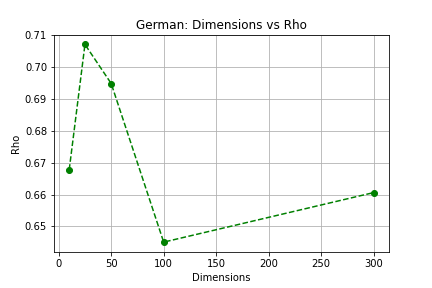
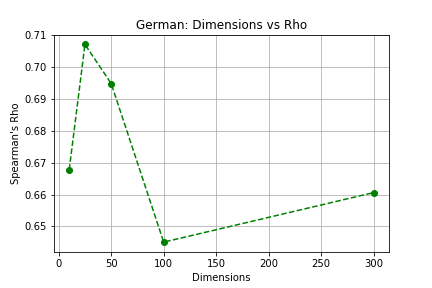
errata fixes

diff --git a/sections/4-results.tex b/sections/4-results.tex
@@ -3,7 +3,7 @@
 
 \subsection{Overall Top Models}
 
-Hyperparameter searches are purely experimental and can be infinitely expanded. By using the most often used hyperparameter values in LSC tasks, a foundation is made for where to begin. \autoref{fig:score-dist} shows the distribution of Spearman's $\rho$ scores for English, German, Latin, and Swedish respectively. The wide variations of scores for each language in these distributions demonstrate the lack of understanding in the effects of the interactions between hyperparameters on the overall performance of the models. Latin's score distribution in \autoref{fig:score-dist-lat} indicates that most of the models trained resulted in an average score. Without a hyperparameter search, there is a high chance that the model trained on Latin corpora will have an average score hence a much smaller chance of having a model that performs very well. Contrastively, the score distributions for English, German, and Swedish in  \autoref{fig:score-dist-eng}, \autoref{fig:score-dist-deu}, and \autoref{fig:score-dist-sve} respectively, have a much wider range of scores—indicating that hyperparameter searches are also worth conducting. Majority of the 3 figures' model scores are low or average and the top-performing models only make up a small percentage of the total scores. These three languages have a better chance of getting a better-performing model, but also have a higher risk of getting a model that performs very poorly. More evident in \autoref{fig:score-dist-sve}, Swedish is at a higher risk of having a model that will perform poorly due do its incredibly large range of scores. A general analysis of the overall top-performing models for each language will be analysed in this section. Findings of the effects of each hyperparameter on the performance for each language will also be discussed below. 
+Hyperparameter searches are purely experimental and can be infinitely expanded. By using the most often used hyperparameter values in LSC tasks, a foundation is made for where to begin. \autoref{fig:score-dist} shows the distribution of Spearman's $\rho$ scores for English, German, Latin, and Swedish respectively. The wide variations of scores for each language in these distributions demonstrate the lack of understanding in the effects of the interactions between hyperparameters on the overall performance of the models. Latin's score distribution in \autoref{fig:score-dist-lat} indicates that most of the models trained resulted in an average score. Without a hyperparameter search, there is a high chance that the model trained on Latin corpora will have an average score hence a much smaller chance of having a model that performs very well. Contrastively, the score distributions for English, German, and Swedish in  \autoref{fig:score-dist-eng}, \autoref{fig:score-dist-deu}, and \autoref{fig:score-dist-sve} respectively, have a much wider range of scores—indicating that hyperparameter searches are also worth conducting. Majority of the 3 figures' model scores are low or average and the top-performing models only make up a small percentage of the total scores. These three languages have a better chance of getting a better-performing model, but also have a higher risk of getting a model that performs very poorly. More evident in \autoref{fig:score-dist-sve}, Swedish is at a higher risk of having a model that will perform poorly due to its incredibly large range of scores. A general analysis of the overall top-performing models for each language will be analysed in this section. Findings of the effects of each hyperparameter on the performance for each language will also be discussed below. 
 
 \begin{figure}[h]
   \centering
@@ -16,7 +16,7 @@ Hyperparameter searches are purely experimental and can be infinitely expanded. 
 \end{figure}
 
 
-The hyperparameter search successfully found model combinations that outperformed both the best teams in the SemEval task and \citet{kaiser-etal-2020-ims}’s post-hoc optimizations for both English and Latin. As seen in \autoref{tab:performance-comparison}, a model was found to surpass the score of the best team in SemEval but not \citet{kaiser-etal-2020-ims} for the German language. The top-performing models for each language and their hyperparameters are shown in \autoref{tab:top-models}. Although it is important to analyse the top results for each language separately, it is noteworthy to see commonalities between all four languages. The Orthogonal Procrustes alignment method seems to be the most effective for bigger datasets. For smaller datasets such as Latin, the Incremental Training alignment method is the most effective as the second time period model has information learned from both the first and second time period corpora. Epochs were also surprisingly low and lower frequency thresholds performed best as it included the maximum amount of words in the model’s vocabulary. Typically, longer epochs mean more time for the model to learn more from the data and the nuances within that data. However, there is a certain threshold where the model stops learning what is useful and begins to learn noise which can decrease model performance. 
+The hyperparameter search successfully found model combinations that outperformed both the best teams in the SemEval task and \citet{kaiser-etal-2020-ims}’s post-hoc optimizations for both English and Latin. As seen in \autoref{tab:performance-comparison}, a model was found to surpass the score of the best team in SemEval but not \citet{kaiser-etal-2020-ims} for the Swedish language. The top-performing models for each language and their hyperparameters are shown in \autoref{tab:top-models}. Although it is important to analyse the top results for each language separately, it is noteworthy to see commonalities between all four languages. The Orthogonal Procrustes alignment method seems to be the most effective for bigger datasets. For smaller datasets such as Latin, the Incremental Training alignment method is the most effective as the second time period model has information learned from both the first and second time period corpora. Epochs were also surprisingly low and lower frequency thresholds performed best as it included the maximum amount of words in the model’s vocabulary. Typically, longer epochs mean more time for the model to learn more from the data and the nuances within that data. However, there is a certain threshold where the model stops learning what is useful and begins to learn noise which can decrease model performance. 
 
 
 \begin{table}[h]
@@ -46,7 +46,7 @@ Latin      & W2V             & INC              & -                & 5          
 Swedish    & FT              & OP               & 5000             & 10                & 50              & 10               & .651            \\
 \bottomrule
 \end{tabular}
-\caption{Top-performing models for each language and their parameters. Abbreviations: W2V=Word2Vec, FT=FastText, OP=Orthogonal Procrustes, INC=Incremental.}
+\caption{Top-performing models for each language and their hyperparameters. Abbreviations: W2V=Word2Vec, FT=FastText, OP=Orthogonal Procrustes, INC=Incremental.}
 \label{tab:top-models}
 \end{table}
 
@@ -66,7 +66,8 @@ The relationship between epochs and performance raises the question of priority 
   \label{fig:all-epochs}
 \end{figure}
 
-The vector dimension hyperparameter refers to the size of the vector for each word representation. Increasing vector dimensions requires a higher computational time and more memory. As expected, English performs best with higher dimensions. The 300-dimension hyperparameter is common in NLP tasks and is usually the standard when conducting NLP (including LSC) tasks on other languages due to the prevalence in studies being done in English.\footnote{Using vectors with a size of 300 dimensions for word representations is the agreed upon standard and is used in most work and tutorials in NLP.} As seen in \autoref{fig:all-dims}, choosing higher dimensions does not necessarily result in better $\rho$ scores as it does with the English language. German, Swedish, and Latin all have higher $\rho$ scores when lower dimensions are used. Latin’s top model performed best with the lowest dimension of 10. Since the Latin corpora is very small compared to the other three languages, having less abstractions of words in the vector representations might have been more useful for the model and minimised the introduction of noise. The genre makeup of corpora is also put into question as it seems to have an effect on the vector dimensions consequently affecting performance. Swedish and German are both composed of newspaper corpora and so the same style and type of language is used. English has a mixed genre corpora and Latin is somewhere in between. Since Swedish and German models are trained on texts that have their own writing style where constructions of sentences are similar but the words have been used under many contexts, vectors with higher dimensions allow for those nuances to be learned. On the other hand, the Latin corpora consists of a wide range of texts compiled and vectors with lower dimensions allow the model to learn the usages of the words in a broader context. The genres of text being included in the corpora must be taken into consideration before choosing the vector dimensions for a model. The standard convention of 300 dimensions, based on English results in past NLP tasks, also shows not as effective on other languages.
+
+The vector dimension hyperparameter refers to the size of the vector for each word representation. Increasing vector dimensions requires a higher computational time and more memory. As expected, English performs best with higher dimensions. The 300-dimension hyperparameter is common in NLP tasks and is usually the standard when conducting NLP (including LSC) tasks on other languages due to the prevalence in studies being done in English.\footnote{Using vectors with a size of 300 dimensions for word representations is the agreed upon standard and is used in most work and tutorials in NLP.} As seen in \autoref{fig:all-dims}, choosing higher dimensions does not necessarily result in better $\rho$ scores as it does with the English language. German, Swedish, and Latin all have higher $\rho$ scores when lower dimensions are used. Latin’s top model performed best with the lowest dimension of 10. Since the Latin corpora is very small compared to the other three languages, having "simpler" word vector representations might have been more useful for the model and minimised the introduction of noise. The genre makeup of corpora is also put into question as it seems to have an effect on the vector dimensions consequently affecting performance. Swedish and German are both composed of newspaper corpora and so the same style and type of language is used. English has a mixed genre corpora and Latin is somewhere in between. Since Swedish and German models are trained on texts that have their own writing style where constructions of sentences are similar but the words have been used under many contexts, vectors with higher dimensions allow for those nuances to be learned. On the other hand, the Latin corpora consists of a wide range of texts compiled and vectors with lower dimensions allow the model to learn the usages of the words in a broader context. The genres of text being included in the corpora must be taken into consideration before choosing the vector dimensions for a model. The standard convention of 300 dimensions, based on English results in past NLP tasks, also shows not as effective on other languages.
 
 %\cmtKV{should i cite something here or is this okay to just say}
 
@@ -77,14 +78,16 @@ The vector dimension hyperparameter refers to the size of the vector for each wo
   \label{fig:all-dims}
 \end{figure}
 
+
 The frequency threshold hyperparameter refers to the minimum number of times a word has to appear in a corpus to be included in the model’s vocabulary and thus for a vector to be learned. Smaller frequency thresholds will result in a larger vocabulary. Since the vocabulary is larger, memory needed will also be larger as there are more vectors to be stored and learned by the model.  \autoref{fig:all-freqs} illustrates that it is generally better to have a lower frequency threshold in order to ensure that majority of the words in a corpus is being included. German and Swedish do not have 4 points in \autoref{fig:all-freqs} as the $\rho$ scores for those model combinations were NaNs. While German performs best with the lowest frequency threshold of 5, English, Latin, and Swedish all perform better at a slightly higher frequency threshold of 10. Depending on the corpus being used, better performance with a higher frequency threshold could mean an effective filtering out of words that are seldom used in the corpus and do not effectively contribute to the target words' contextual meanings: a steady decrease in $\rho$ scores are seen as the frequency threshold increases. This is expected since a higher frequency threshold results in less words in the vocabulary and a smaller vocabulary naturally excludes words that contribute to the contextual meaning of a word. 
 
 \begin{figure}[h]
   \centering
   \includegraphics[width=.8\linewidth]{sections/figures/freqs_all.png}
-  \caption{Change in Frequency Thresholds vs. Performance.}
+  \caption{Change in Frequency Threshold vs. Performance.}
   \label{fig:all-freqs}
 \end{figure}
+
 
 Two approaches were used for the Orthogonal Procrustes alignment method—Ryan Heuser’s Tutorial\footnote{\url{https://gist.github.com/quadrismegistus/09a93e219a6ffc4f216fb85235535faf}} and VecMap\footnote{\url{https://github.com/artetxem/vecmap}}. The former had a default of including the entire shared vocabulary of the first time period corpus and the second time period corpus during the alignment process. However, the latter included the option to indicate the size of the shared vocabulary during the alignment process. \autoref{fig:all-vocabalign} shows the effect of vocabulary size during the Orthogonal Procrustes alignment process on $\rho$ scores when using VecMap. Latin is not included in this graph since its top-performing model used the Incremental Training alignment method. English and German seem to be affected similarly from this hyperparameter while Swedish experiences the opposite. German profits when the entire vocabulary (where the shared vocabulary size is 218,507), including the target words, is included in the alignment process and results in the top-performing model. Swedish experiences a similar increase in performance when the shared vocabulary size is 5000. However, the top-performing model for Swedish has a vocabulary size of 5000 and an increase in vocabulary size shows a decrease in $\rho$ scores. Although English has a significantly smaller corpora size, it also profits from the inclusion of the entire vocabulary (where the shared vocabulary size is 16,429) when aligning both time period models. \autoref{fig:all-vocabalign} shows that the most effective shared vocabulary size when using the Orthogonal Procrustes alignment method is language-specific and cannot be generalised. It also demonstrates the advantages of performing hyperparameter searches and that findings in one language are not always universal.
 
@@ -94,6 +97,7 @@ Two approaches were used for the Orthogonal Procrustes alignment method—Ryan H
   \caption{Shared Vocabulary Size in Orthogonal Procrustes Alignment vs. Performance.}
   \label{fig:all-vocabalign}
 \end{figure}
+
 
 The results from this large-scale hyperparameter search introduces and substantiates some intuitions when selecting hyperparameters for future LSC tasks. There is a threshold for the amount of improvement in scores when models are trained with higher epochs. Models trained with generally lower epochs performed the best within the range chosen for this hyperparameter search. The standard of 300 dimensions as a baseline for vector representations, based on NLP best prractices for the English language, does not necessarily apply to all languages. German, Latin, and Swedish performed best with models that had lower dimensions. When choosing the dimensions of vectors, it is also important to consider the size of the corpora and the genres of texts included in the corpora. Larger corpora where the usage of words fall under the same writing style might need higher dimensions in order to learn the nuances whenever a word is used. Conversely, corpora smaller in size consisting of texts of a wider genre range would need lower dimensions in order to learn the usages of words in a broader context. In terms of frequency thresholds, a lower frequency threshold maximises the amount of words included in the vocabulary and this results in more contributions to the contextual meaning of each word. However, a slightly higher frequency threshold can be effective in filtering out words that are rarely used and do not contribute to the meaning of the target words. For models that perform better using the Orthogonal Procrustes alignment method, the size of the shared vocabulary during the aligning process can greatly affect the performance. Both English and German profit from including the entire shared vocabulary while Swedish performs better with a smaller shared vocabulary.
 
@@ -109,7 +113,7 @@ Every model trained was also evaluated by creating smaller target word lists bas
   \centering
   \vspace*{-2mm}
   \subcaptionbox{\label{fig:postag-eng}English (89$\%$ nouns, 11$\%$ verbs)}{\includegraphics[width = 3in]{sections/figures/eng-pos-target-control.png}}\quad
-  \subcaptionbox{\label{fig:postag-deu}German(67$\%$ nouns, 29$\%$  verbs, 4$\%$ adjectives)}{\includegraphics[width = 3in]{sections/figures/deu-pos-target-control.png}}\\
+  \subcaptionbox{\label{fig:postag-deu}German (67$\%$ nouns, 29$\%$  verbs, 4$\%$ adjectives)}{\includegraphics[width = 3in]{sections/figures/deu-pos-target-control.png}}\\
   \subcaptionbox{\label{fig:postag-lat}Latin (70$\%$ nouns, 12.5$\%$  verbs, 17.5$\%$ adjectives)}{\includegraphics[width = 3in]{sections/figures/lat-pos-target-control.png}}\quad
   \subcaptionbox{\label{fig:postag-sve}Swedish (71$\%$ nouns, 19$\%$ verbs, 10$\%$ adjectives)}{\includegraphics[width = 3in]{sections/figures/sve-pos-target-control.png}}
   \caption{Target Word POS-tag Distribution for Each Language. Control words (words that have not undergone semantic change) are shown through a lighter colour respective of its POS-tag and offsetted. Percentages in the captions are rounded to the nearest integer for readability.}

diff --git a/sections/2-background.tex b/sections/2-background.tex
@@ -6,7 +6,7 @@
 
 \subsection{Distributional Hypothesis}
 
-The Distributional Hypothesis is the theory that drives the current and leading models for detecting LSC. The rationale being that “there is a correlation between distributional similarity and meaning similarity, which allows us to utilize the former in order to estimate the latter”—in simpler and more familiar terms, “words which are similar in meaning occur in similar contexts” \citep{sahlgren2008distributional}. The distributional methodology presented in \citet{harris1970distributional} is built on structuralist theory. A structuralist approach to language focuses on the general construction of a language system rather than the idiolectal use of language. According to \citet{sahlgren2008distributional}, \citet{saussure1916} identifies the functional differences of linguistic meaning into syntagmatic and paradigmatic relations. Syntagmatic relations involve the syntactic positioning or sequence of words. The combination and order of linguistic entities form a syntagmatic relationship that then creates meaning. Paradigmatic relations exist between words that appear in the same context but do not co-occur. Given these characteristics, linguistic entities that have a paradigmatic relationship should be interchangeable within the same context or sentence. For example, the sequence of words in the sentence ``I am writing my thesis right now" together form one meaning thus having a syntagmatic relationship. If the word `thesis' is replaced in the sentence, forming ``I am writing my book right now", `thesis' and `book' share a paradigmatic relationship. \citet{sahlgren2008distributional} offers the refined Distributional Hypothesis as, “A distributional model accumulated from co-occurrence information contains syntagmatic relations between words, while a distributional model accumulated from information about shared neighbors contains paradigmatic relations between words.” With this in mind, models with a larger context window are more likely to detect or learn paradigmatic relations. Depending on the manipulation of specific model hyperparameters, certain relations will be learned. 
+The Distributional Hypothesis is the theory that drives the current and leading models for detecting LSC. The rationale being that “there is a correlation between distributional similarity and meaning similarity, which allows us to utilize the former in order to estimate the latter”—in simpler and more familiar terms, “words which are similar in meaning occur in similar contexts” \citep{sahlgren2008distributional}. The distributional methodology presented in \citet{harris1954distributional} is built on structuralist theory. A structuralist approach to language focuses on the general construction of a language system rather than the idiolectal use of language. According to \citet{sahlgren2008distributional}, \citet{saussure1916} identifies the functional differences of linguistic meaning into syntagmatic and paradigmatic relations. Syntagmatic relations involve the syntactic positioning or sequence of words. The combination and order of linguistic entities form a syntagmatic relationship that then creates meaning. Paradigmatic relations exist between words that appear in the same context but do not co-occur. Given these characteristics, linguistic entities that have a paradigmatic relationship should be interchangeable within the same context or sentence. For example, the sequence of words in the sentence ``I am writing my thesis right now" together form one meaning thus having a syntagmatic relationship. If the word `thesis' is replaced in the sentence, forming ``I am writing my book right now", `thesis' and `book' share a paradigmatic relationship. \citet{sahlgren2008distributional} offers the refined Distributional Hypothesis as, “A distributional model accumulated from co-occurrence information contains syntagmatic relations between words, while a distributional model accumulated from information about shared neighbors contains paradigmatic relations between words.” With this in mind, models with a larger context window are more likely to detect or learn paradigmatic relations. Depending on the manipulation of specific model hyperparameters, certain relations will be learned. 
 
 
 \subsection{Lexical Semantic Change (LSC)}

diff --git a/sections/7-future.tex b/sections/7-future.tex
@@ -3,7 +3,7 @@
 
 There are still many questions that remain unanswered in the study of language change. In detecting LSC, finding methodologies that perform well in their respective domains is a continuous undertaking. Ways to expand this hyperparameter search will be discussed in this section.
 
-Models trained on diachronic corpora to detect LSC must be validated in other ways. Although the top models in this thesis performed well based on SemEval’s diachronic corpora, it would be interesting to take the same models and examine each of the model’s word representations based on synchronic data. Evaluating the validity of these models not only diachronically would give more insight into what the word representations have learned and how accurate they are. This can be done by using a datasets such as Simlex-999 \citep{hill-reichart-simlex999} and WordSim-353 \citep{finkelstein-wordsim2001} for English as well as \citet{supersim2021}'s SuperSim dataset—a similarity and relatedness test set for Swedish based on expert human judgments. 
+Models trained on diachronic corpora to detect LSC must be validated in other ways. Although the top models in this thesis performed well based on SemEval’s diachronic corpora, it would be interesting to take the same models and examine each of the model’s word representations based on synchronic data. Evaluating the validity of these models not only diachronically would give more insight into what the word representations have learned and how accurate they are. This can be done by using datasets such as Simlex-999 \citep{hill-reichart-simlex999} and WordSim-353 \citep{finkelstein-wordsim2001} for English as well as \citet{supersim2021}'s SuperSim dataset—a similarity and relatedness test set for Swedish based on expert human judgments. 
 
 An evident expansion of this hyperparameter search would be to use the top-performing hyperparameter combinations on other tasks and datasets to assess their robustness and applicability. Conducting similar hyperparameter searches for other languages would allow for a results comparison to see if the same hyperparameter combinations perform best and persist with languages that have similar structures or belong to the same language family. Of course, it is important to keep in mind that availability of datasets for LSC is very limited and the work will begin with creating these datasets. However, once this work has been done, identifying patterns between languages and their top-performing models would allow for a higher-level examination of hyperparameter combinations. Conclusions will hopefully be possible for meta-languages depending on how languages are related—genetic or phylogenetic, or shared language features (e.g. phonology, morphology, syntax). This would allow for broader intuitions into what models create reliable word representations depending on the language.
 

diff --git a/sections/9.2-appendix-overallresults.tex b/sections/9.2-appendix-overallresults.tex
@@ -11,10 +11,9 @@ Each top-performing model for English, German, Latin, and Swedish is taken and o
   \subcaptionbox{Vector Dimensions}{\includegraphics[width = 3in]{sections/figures/top-models/eng_dims.png}}\\
   \subcaptionbox{Frequency Threshold}{\includegraphics[width = 3in]{sections/figures/top-models/eng_freqs.png}}\quad
   \subcaptionbox{Vocabulary Size}{\includegraphics[width = 3in]{sections/figures/top-models/eng_vocabalign.png}}
-  \caption{English Top Model Hyperparamater Graphs}
+  \caption{English Top Model Hyperparameter Graphs}
   \label{fig:eng-topmodels}
 \end{figure}
-
 
 
 \pagebreak
@@ -27,24 +26,28 @@ Each top-performing model for English, German, Latin, and Swedish is taken and o
   \subcaptionbox{Vector Dimensions}{\includegraphics[width = 3in]{sections/figures/top-models/deu_dims.png}}\\
   \subcaptionbox{Frequency Threshold}{\includegraphics[width = 3in]{sections/figures/top-models/deu_freqs.png}}\quad
   \subcaptionbox{Vocabulary Size}{\includegraphics[width = 3in]{sections/figures/top-models/deu_vocabalign.png}}
-  \caption{German Top Model Hyperparamater Graphs}
+  \caption{German Top Model Hyperparameter Graphs}
   \label{fig:deu-topmodels}
 \end{figure}
 
 \vspace*{\fill}
 
+
 \pagebreak
 
 \vspace*{\fill}
+
+ % YOU ARE HERE EDIT SPEARMAN'S RHO Y AXIS HERE
  
 \begin{figure}[h]
   \centering
   \subcaptionbox{Epochs}{\includegraphics[width = 3in]{sections/figures/top-models/lat_epochs.png}}\quad
   \subcaptionbox{Vector Dimensions}{\includegraphics[width = 3in]{sections/figures/top-models/lat_dims.png}}\\
   \subcaptionbox{Frequency Threshold}{\includegraphics[width = 3in]{sections/figures/top-models/lat_freqs.png}}\quad
-  \caption{Latin Top Model Hyperparamater Graphs}
+  \caption{Latin Top Model Hyperparameter Graphs}
   \label{fig:lat-topmodels}
 \end{figure}
+
 
 \vspace*{\fill}
 
@@ -58,7 +61,7 @@ Each top-performing model for English, German, Latin, and Swedish is taken and o
   \subcaptionbox{Vector Dimensions}{\includegraphics[width = 3in]{sections/figures/top-models/sve_dims.png}}\\
   \subcaptionbox{Frequency Threshold}{\includegraphics[width = 3in]{sections/figures/top-models/sve_freqs.png}}\quad
   \subcaptionbox{Vocabulary Size}{\includegraphics[width = 3in]{sections/figures/top-models/sve_vocabalign.png}}
-  \caption{Swedish Top Model Hyperparamater Graphs}
+  \caption{Swedish Top Model Hyperparameter Graphs}
   \label{fig:sve-topmodels}
 \end{figure}
 

diff --git a/main.tex b/main.tex
@@ -47,7 +47,6 @@ Level: & Advanced level \\
 Semester and year: & Spring, 2021\\
 Supervisor: & Simon Hengchen\\
 Examiner: & Eleni Gregoromichelaki\\
-Report number: & (number will be provided by the administrators) \\
 Keywords: & semantic change, language change, diachronic word embeddings
 \end{tabular}
 \endgroup
